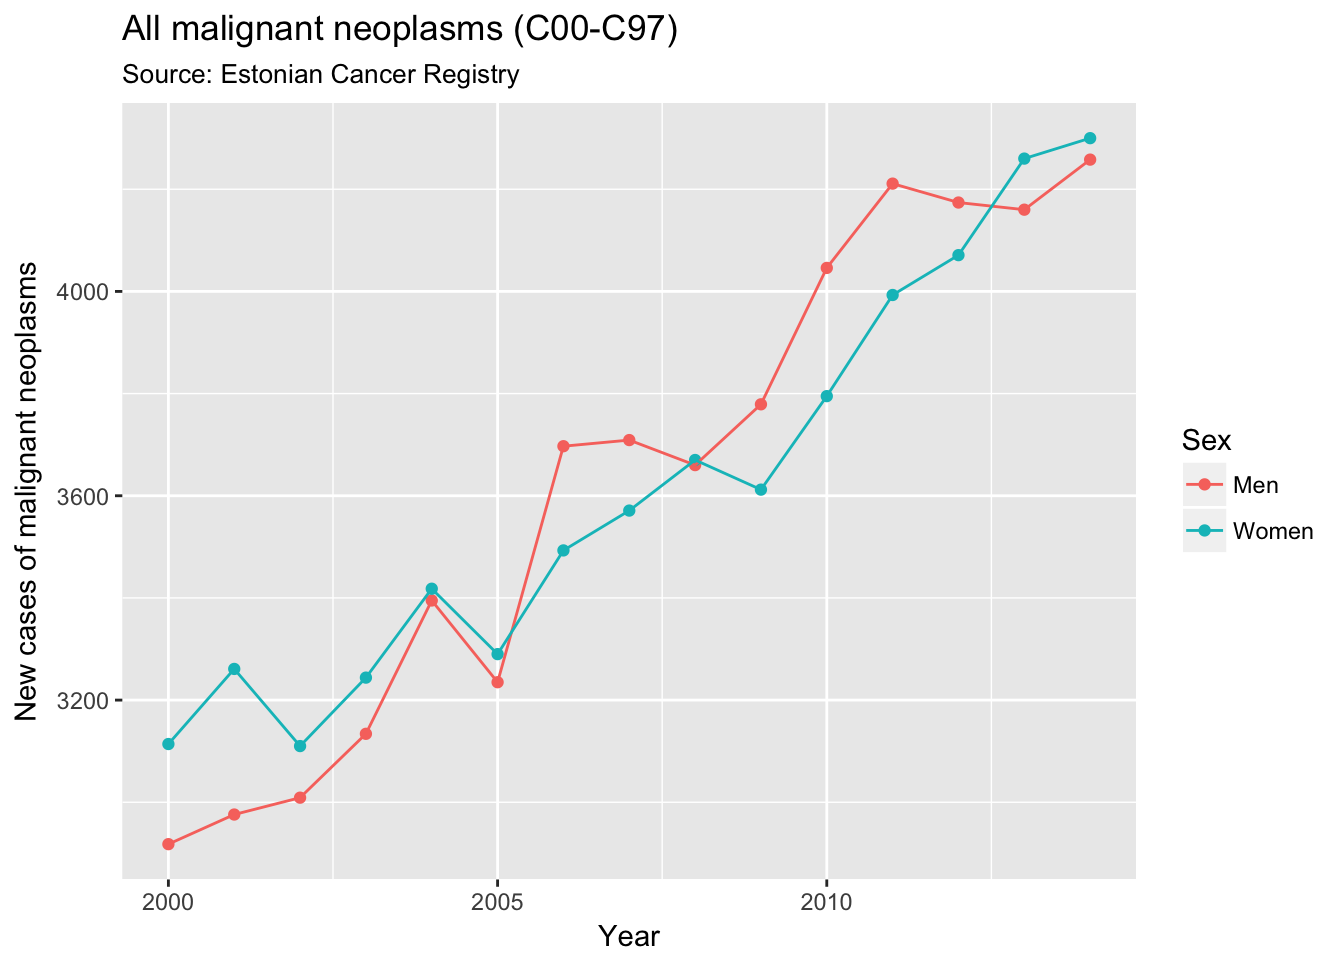
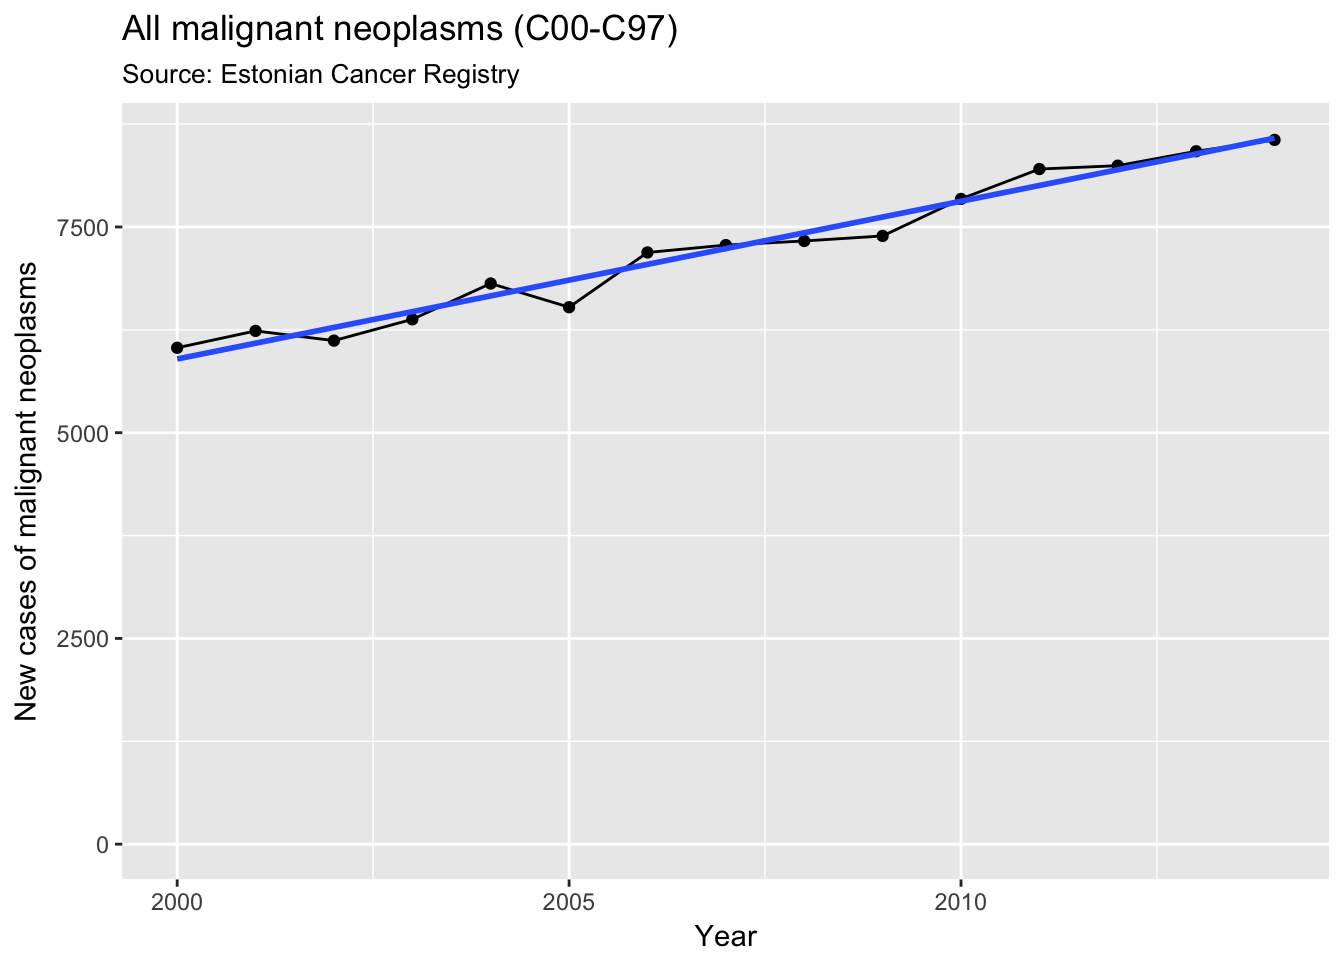
go on

diff --git a/_site/index.html b/_site/index.html
@@ -258,7 +258,7 @@ Screen caption from dataset download page. Note that data was downloaded in JSON
 <pre class="r"><code>url &lt;- &quot;https://raw.githubusercontent.com/rstats-tartu/datasets/master/cancer_newcases_PK10.json&quot;
 ## issues warning when dir exists
 dir.create(&quot;data&quot;)
-download.file(url, &quot;data/cancer_incidence_PK30.json&quot;)</code></pre>
+download.file(url, &quot;data/cancer_incidence_PK10.json&quot;)</code></pre>
 <p><br></p>
 </div>
 <div id="import-and-prepare-data" class="section level2">
@@ -327,7 +327,7 @@ cases</code></pre>
 <p>We can see that number of new cancer cases is available from years 2000 to 2014 for both sexes, 18 age groups and 1 different types of cancer sites …</p>
 </blockquote>
 <p><strong>Hold on…</strong> This table has data intermingled with summary data – cases of specific cancer types are next to total cases – , that’s bad!</p>
-<pre><code>Year  Site                              Sex
+<pre class="r"><code>Year  Site                              Sex
 &lt;fctr&gt;&lt;fctr&gt;                            &lt;fctr&gt;
 2000    All malignant neoplasms (C00-C97)   Men     &lt;- tallies
 2000    All malignant neoplasms (C00-C97)   Women     &lt;- tallies
@@ -435,20 +435,20 @@ cases_long &lt;- gather(data = cases,
                          matches(&quot;[[:digit:]]+&quot;))</code></pre>
 <p>Now we have each value on separate row and can filter out missing values. Currently missing values are expicitly labeled with NA-s. Function <code>complete.cases()</code> gives logical vector indicating rows with no missing values (no NA-s). Based on this logical vector, <code>filter()</code> then keeps only <code>TRUE</code> rows.</p>
 <pre class="r"><code>## Filter out missing data,
-cases_long &lt;- cases_long %&gt;% 
-  filter(complete.cases(.))
+cases_long &lt;- cases_long %&gt;% filter(complete.cases(.))
 ## above is same as:
 ## filter(cases_long, complete.cases(cases_long))</code></pre>
 <p>Before filtering missing values table had 39420 rows and after 39420. <strong>Wow, looks that we don’t have NA-s in our table!</strong></p>
 </div>
 <div id="cancer-trend-in-estonia" class="section level2">
 <h2>Cancer trend in Estonia</h2>
-<p>It’s simple, we have already summary data available in our table variable called “All malignant neoplasms (C00-C97)” in Site column. We plot this variable versus Years and for begginning we lump together men and women:.</p>
+<p>It’s quite simple, we have already summary data available in our table under variable called “All malignant neoplasms (C00-C97)” in Site column. We plot this variable versus Years and for begginning we lump together men and women:.</p>
 <pre class="r"><code>total_cases_per_year &lt;- cases_long %&gt;% 
   filter(Site == &quot;All malignant neoplasms (C00-C97)&quot;) %&gt;% 
   group_by(Year) %&gt;% 
   summarise(total_cases = sum(cases)) 
-## we disect plot to an object, then we can reuse it
+
+## We direct plot to an object, then we can reuse it
 p &lt;- total_cases_per_year %&gt;% 
   ggplot(aes(Year, total_cases)) +
   geom_point() +
@@ -460,7 +460,11 @@ p</code></pre>
 <p><img src="index_files/figure-html/unnamed-chunk-13-1.png" width="672" /></p>
 <pre><code>## [1] 6032 8558</code></pre>
 <pre><code>## [1] &quot;42%&quot;</code></pre>
-<p>We can see that the number of new cases has increased 42% since year 2000, from 6032 to 8558.</p>
+<p>We can see that the number of new cases increased 42% between 2000 to 2014, from 6032 to 8558. This means on average 168 more tumors each year. To better examplify this trend, we can add linear model fit to the plot using <code>geom_smooth()</code> function from “ggplot2”. Now we can perceive that cancer cases are rocketing into sky. This is because our plot y axis starts at 6000 and we have ommitted baseline from graph, we can put this increase into better perspective by adding <code>y = 0</code> to the plot.</p>
+<pre class="r"><code>p + 
+  geom_smooth(method = &quot;lm&quot;, se = FALSE) + 
+  expand_limits(y = 0)</code></pre>
+<p><img src="index_files/figure-html/unnamed-chunk-15-1.png" width="672" /></p>
 <p>Is the number of cases similar in males and females? Again, we look on the all cancers, but also group by Sex:</p>
 <pre class="r"><code>total_cases_per_year_sex &lt;- cases_long %&gt;% 
   filter(Site == &quot;All malignant neoplasms (C00-C97)&quot;) %&gt;% 
@@ -468,18 +472,48 @@ p</code></pre>
   summarise(total_cases = sum(cases)) 
 ## we give new data to plot and we also must supply aes for Sex
 p %+% total_cases_per_year_sex + aes(color = Sex)</code></pre>
-<p><img src="index_files/figure-html/unnamed-chunk-15-1.png" width="672" /></p>
+<p><img src="index_files/figure-html/unnamed-chunk-16-1.png" width="672" /></p>
 <p>We can see that cancer prevalence is similar in both gender.</p>
-<p><strong>How big is the increase per year</strong>, although we have count data and perhaps should use Poisson model. However, as the mean gets further away from zero even as low as 10, the Poisson distribution looks like a normal distribution. It becomes symmetric with it a mode at the mean. So we can safely fit normal linear model, parameter estimates will be similar to Poisson.</p>
-<pre class="r"><code>mod1 &lt;- lm(total_cases ~ Year, total_cases_per_year)
-## tidy is from broom package
-tidy(mod1)</code></pre>
-<pre><code>##          term     estimate    std.error statistic      p.value
-## 1 (Intercept) -377461.3595 19284.938088 -19.57286 4.986739e-11
-## 2        Year     191.6786     9.608816  19.94820 3.924643e-11</code></pre>
-<p>We can see that number of new cancer cases has increased by 192 each year during this period. NB! intercept term does not make sense in this case.</p>
-<p>So we have seen 192 more new cases each year during 2000 and 2014. Do we have more cancer or does this reflects increase in population size?</p>
+<p>So we have seen on average 168 more new cases each year during 2000 and 2014.</p>
+<p>Do we have more cancer or does this reflects increase in population size?</p>
 <p>To answer this question, we need population size normalised values of cancer cases – <strong>incidence</strong>. Cancer incidence is obtained by dividing cancer prevalence with population size.</p>
+<pre class="r"><code>library(tidyverse)
+pop &lt;- read_csv(&quot;data/mean_annual_population.csv&quot;)</code></pre>
+<pre><code>## Parsed with column specification:
+## cols(
+##   .default = col_integer(),
+##   Sex = col_character()
+## )</code></pre>
+<pre><code>## See spec(...) for full column specifications.</code></pre>
+<pre class="r"><code>## summarise 0 and 1-4 to 0-4 age group
+pop_long &lt;- mutate(pop, &quot;0-4&quot; = `0` + `1-4`) %&gt;% 
+  select(-`0`, -`1-4`) %&gt;% 
+  gather(&quot;age&quot;, &quot;ave_pop&quot;, matches(&quot;^[[:digit:]]&quot;))
+
+## calculate incidence per 100&#39;000
+left_join(select(cases_long, -`Specified site`, -Site_old), pop_long) %&gt;% 
+  group_by(Site, Year, Sex) %&gt;% 
+  summarise(cases = sum(cases),
+            ave_pop = sum(ave_pop)) %&gt;% 
+  mutate(incidence = cases/(ave_pop/1E5)) %&gt;% 
+  arrange(desc(incidence))</code></pre>
+<pre><code>## Joining, by = c(&quot;Year&quot;, &quot;Sex&quot;, &quot;age&quot;)</code></pre>
+<pre><code>## # A tibble: 2,190 x 6
+## # Groups:   Site, Year [1,095]
+##                                                                 Site  Year
+##                                                                &lt;chr&gt; &lt;dbl&gt;
+##  1                                 All malignant neoplasms (C00-C97)  2014
+##  2                                 All malignant neoplasms (C00-C97)  2011
+##  3                                 All malignant neoplasms (C00-C97)  2012
+##  4                                 All malignant neoplasms (C00-C97)  2013
+##  5                                 All malignant neoplasms (C00-C97)  2010
+##  6 All malignant neoplasms except skin (other) (C00-C97, except C44)  2011
+##  7                                 All malignant neoplasms (C00-C97)  2014
+##  8 All malignant neoplasms except skin (other) (C00-C97, except C44)  2012
+##  9                                 All malignant neoplasms (C00-C97)  2009
+## 10 All malignant neoplasms except skin (other) (C00-C97, except C44)  2013
+## # ... with 2,180 more rows, and 4 more variables: Sex &lt;chr&gt;, cases &lt;int&gt;,
+## #   ave_pop &lt;int&gt;, incidence &lt;dbl&gt;</code></pre>
 </div>
 <div id="references" class="section level2 unnumbered">
 <h2>References</h2>
